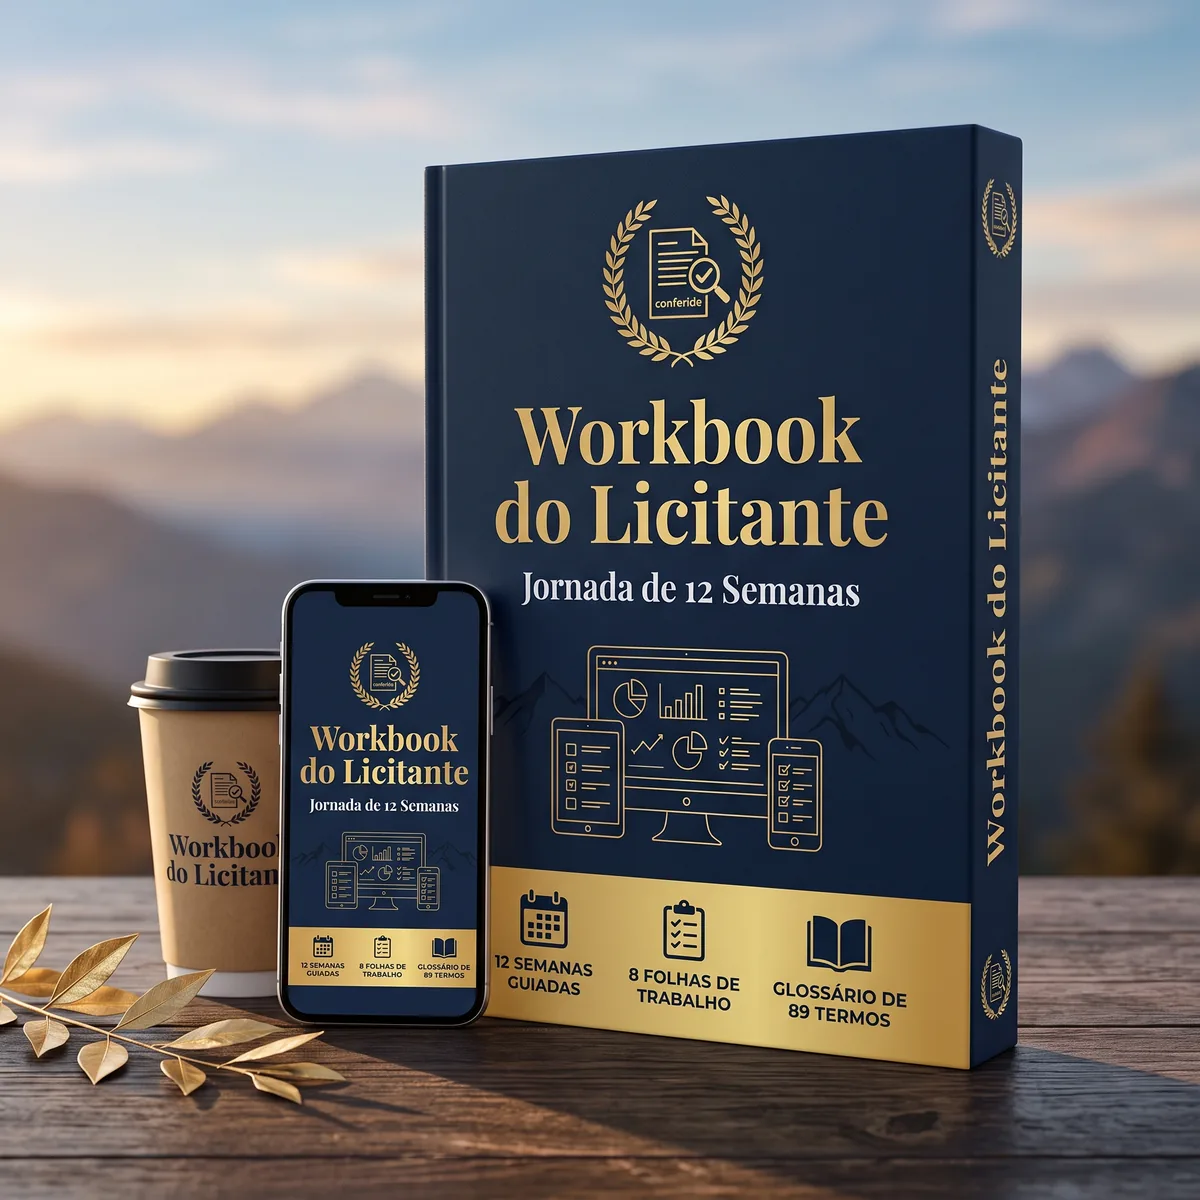
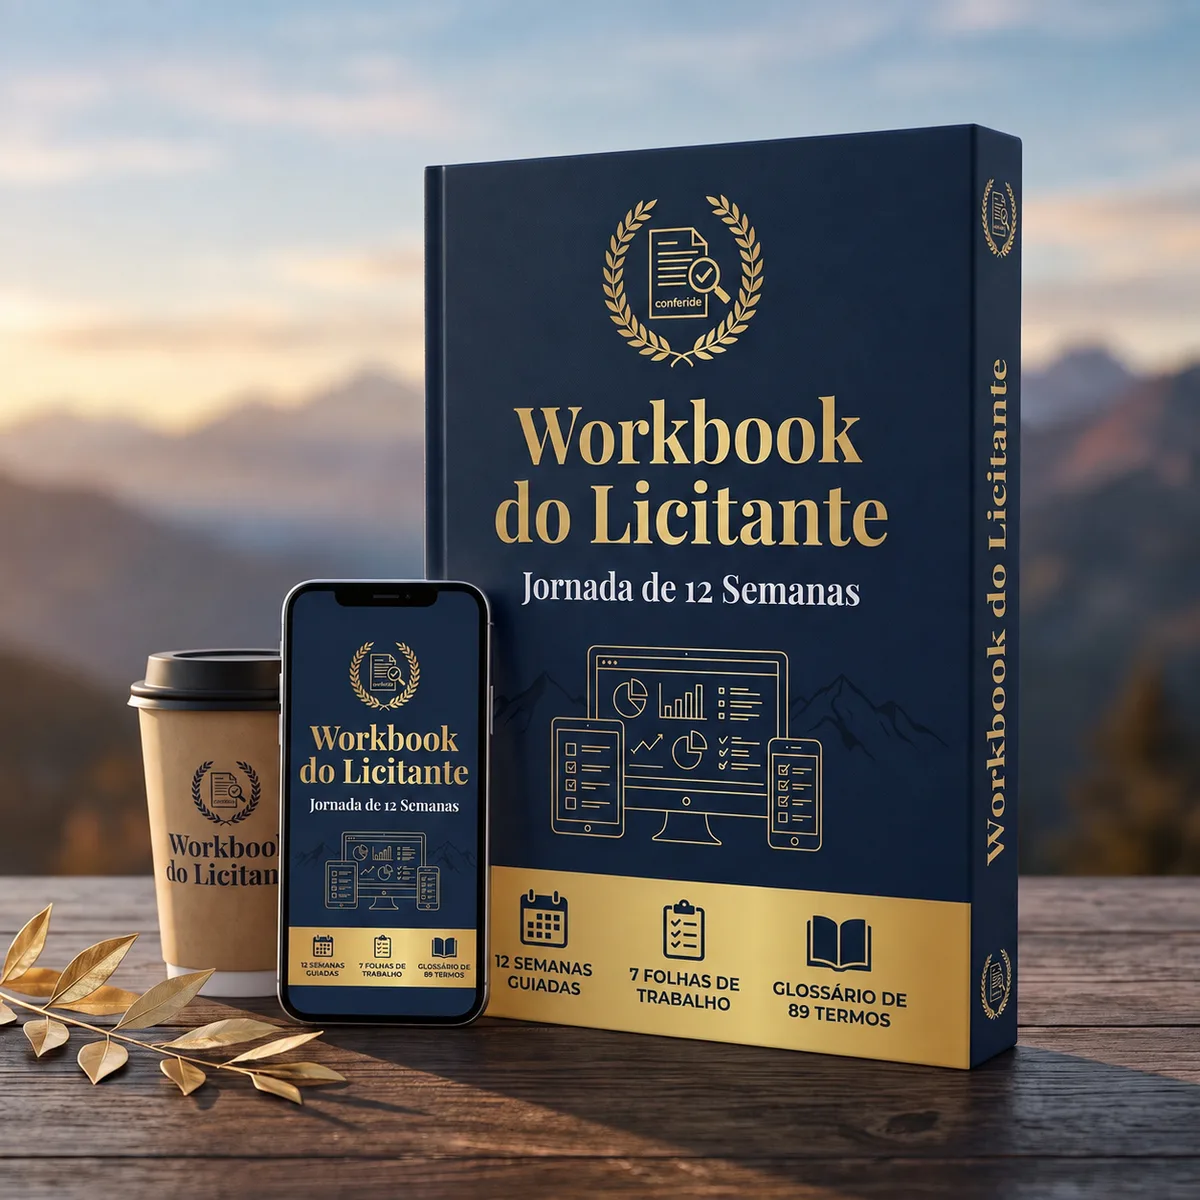
A home passa a mostrar a arte do produto, e a arte para de mentir (#136)
Duas coisas que andam juntas: a troca da imagem na seção "Incluído na
assinatura" da home, pedida pelo dono, e a arte regerada que ele mandou
junto.

A HOME ERA A ÚNICA COM ARTE DIFERENTE

Ali vinha `workbook-do-licitante.webp`, uma composição de páginas do PDF.
O resto do site (a `/jornada/` e o bloco de oferta que aparece em todas as
páginas públicas) já usava a arte de produto. Agora as três usam a mesma.

O arquivo antigo fica em `public/`, sem referência: apagar é decisão do
dono, e ele pode servir noutro canto.

A ARTE ANUNCIAVA UMA FOLHA DE TRABALHO A MAIS DO QUE O LIVRO TEM

E esteve assim em toda página pública desde 28/08. Nenhum teste pegou,
porque `numeros-do-livro.guarda.test.ts` lê o fonte e não enxerga pixel —
o mesmo ponto cego que deixou o número errado no site em seis lugares até
o dono conferir a página publicada, em 02/09.

A arte nova, gerada pelo dono e conferida aqui olhando a imagem, traz os
três selos certos: 12 semanas guiadas, 7 folhas de trabalho, glossário de
89 termos. Como o arquivo é o mesmo, o conserto vale de uma vez para a
home, a `/jornada/` e o bloco de oferta.

PNG de 2,0 MB em 1254x1254 convertido para WebP de 112 KB em 1200x1200
(sharp, qualidade 82). A medida foi mantida porque é a que os três usos já
declaram, então nenhum `width`/`height` mudou.

O QUE PASSA A SER CONFERÍVEL

Os `alt` das três imagens diziam "as folhas de trabalho", sem número,
escritos assim justamente para não repetir o número errado da arte. Agora
[…]

diff --git a/src/app/page.tsx b/src/app/page.tsx
@@ -267,8 +267,38 @@ export default function Home() {
         {/*
           O livro entra depois dos pilares e antes do autor, que é onde a
           pessoa já entendeu o que o produto faz e ainda não sabe o que leva
-          junto. A imagem é composta de páginas reais do PDF, e não de uma
-          ilustração: o que aparece legível ali existe no livro.
+          junto.
+
+          A ARTE, E O QUE ELA É
+
+          Até 05/09 aqui vinha `workbook-do-licitante.webp`, uma composição de
+          páginas reais do PDF. Trocada a pedido do dono pela mesma arte de
+          produto que o site já usa em `/jornada/` e no bloco de oferta de
+          todas as páginas públicas, para a home parar de ser a única com uma
+          imagem diferente do resto.
+
+          Esta é uma ilustração gerada, não uma foto e não um recorte do
+          livro: o livro é digital e nunca teve capa dura. Os números que
+          valem estão no texto ao lado, conferidos contra o `completo.html`
+          por `numeros-do-livro.guarda.test.ts`.
+
+          A PRIMEIRA VERSÃO DESTA ARTE MENTIA, E A GUARDA NÃO ALCANÇAVA
+
+          A tarja anunciava uma folha de trabalho a mais do que o livro tem,
+          e a arte esteve assim em `/jornada/` e no bloco de oferta de todas as
+          páginas públicas. Nenhum teste pegou, porque a guarda lê o fonte e
+          não enxerga pixel. Regerada em 05/09 com o número certo.
+
+          (O número errado não vai escrito aqui de propósito: a guarda casa
+          qualquer "N folhas de trabalho" no arquivo, comentário incluído, e
+          está certa em não tentar adivinhar o que é código e o que é prosa.
+          Foi ela mesma que reprovou a primeira versão deste comentário.)
+
+          O que sobrou disso: o `alt` de cada uso desta imagem passou a
+          declarar "7 folhas de trabalho" por escrito. Não é só descrição para
+          quem usa leitor de tela — é o número da arte entrando no texto que a
+          guarda confere, que é o mais perto de cobrir a imagem que dá para
+          chegar sem ler pixel.
         */}
         <section className="border-t bg-[#030814]">
           <div className="mx-auto grid max-w-6xl items-center gap-10 px-6 py-16 lg:grid-cols-2 lg:gap-14 lg:py-20">
@@ -310,12 +340,12 @@ export default function Home() {
             </div>
 
             <Image
-              src="/workbook-do-licitante.webp"
-              alt="Três páginas do Workbook do Licitante: a capa, a folha de habilitação com a lista de documentos para conferir antes de cada envio, e duas colunas do glossário."
-              width={2000}
-              height={1250}
-              sizes="(max-width: 1024px) 100vw, 620px"
-              className="h-auto w-full rounded-xl"
+              src="/workbook-do-licitante-produto.webp"
+              alt="O Workbook do Licitante: o livro em pé sobre uma mesa de madeira, ao lado de um celular que mostra a mesma capa. Na base da capa, três selos: 12 semanas guiadas, 7 folhas de trabalho e o glossário de 89 termos."
+              width={1200}
+              height={1200}
+              sizes="(max-width: 1024px) 100vw, 560px"
+              className="mx-auto h-auto w-full max-w-lg rounded-xl"
             />
           </div>
         </section>

diff --git a/src/components/venda/OfertaDoWorkbook.tsx b/src/components/venda/OfertaDoWorkbook.tsx
@@ -38,7 +38,7 @@ const ARTE = {
   alt:
     "O Workbook do Licitante: o livro em pé sobre uma mesa de madeira, ao lado de um " +
     "celular que mostra a mesma capa. Na base da capa, três selos: 12 semanas guiadas, " +
-    "as folhas de trabalho e o glossário de 89 termos.",
+    "7 folhas de trabalho e o glossário de 89 termos.",
 };
 
 /** O valor com que o Workbook já era ancorado na página de venda. */

diff --git a/src/components/venda/copy-da-jornada.ts b/src/components/venda/copy-da-jornada.ts
@@ -261,7 +261,7 @@ export const O_LIVRO = {
   alt:
     "O Workbook do Licitante: o livro em pé sobre uma mesa de madeira, ao lado " +
     "de um celular que mostra a mesma capa. Na base da capa, três selos: 12 " +
-    "semanas guiadas, as folhas de trabalho e o glossário de 89 termos.",
+    "semanas guiadas, 7 folhas de trabalho e o glossário de 89 termos.",
 };
 
 export const CONTEUDO = {
